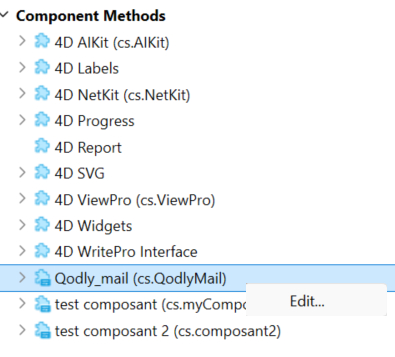
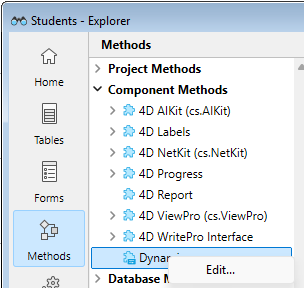
after clossure

diff --git a/docs/Extensions/develop-components.md b/docs/Extensions/develop-components.md
@@ -20,13 +20,13 @@ Creating and installing 4D components is carried out directly from 4D:
 
 - To use a component, you simply need to [install it in your application](../Project/components.md).
 - A project can be both a matrix and a host, in other words, a matrix project can itself use one or more components. However, a component cannot use "sub-components" itself.
-- A component can call on most of the 4D elements: classes, functions, project methods, project forms, menu bars, choice lists, and so on. It cannot call database methods and triggers.
-- You cannot use the datastore, standard tables, or data files in 4D components. However, a component can create and/or use tables, fields and data files using mechanisms of external databases. These are separate 4D databases that you work with using SQL commands.
+- A component can call on most of the 4D elements: datastore ([`ds`](../commands/ds.md)), classes, functions, project methods, project forms, menu bars, choice lists, and so on. The following database methods can be used: [On Web Connection](../commands-legacy/on-web-connection-database-method.md), [On Web Authentication](../commands-legacy/on-web-authentication-database-method.md), [On Host Database Event](../commands-legacy/on-host-database-event-database-method.md). 
+- A component can create and/or use tables, fields and data files using mechanisms of external databases. These are separate 4D databases that you work with using SQL commands.
 - A host project running in interpreted mode can use either interpreted or compiled components. A host project running in compiled mode cannot use interpreted components. In this case, only compiled components can be used.
 
 :::note
 
-Interpreted component code can be [edited directly from the host project](../Project/components.md#editing-component-code) if the context is supported. 
+Interpreted component code can be [edited directly from the host project](#editing-components-from-the-host) if the context is supported. 
 
 :::
 
@@ -157,21 +157,53 @@ $rect:=cs.eGeometry._Rectangle.new(10;20)
 
 ## Editing components from the host
 
-To facilitate component tuning in the actual context of host projects, you can directly modify and save the code of a loaded component from an interpreted host project. The component code is editable when the following conditions are met:
+To facilitate component tuning in the actual context of host projects, you can directly modify and save the code of a loaded component using the 4D IDE from an interpreted host project. Modifications can be immediately tested in the project, without having to restart. 
 
-- the component has been [loaded in interpreted mode](../Project/components.md#interpreted-and-compiled-components),
-- the component is not loaded from the [local cache of the Dependency manager](../Project/components.md#local-cache-for-dependencies), i.e. it is not [downloaded from GitHub](../Project/components.md#adding-a-github-dependency).
+The component code is editable when the following conditions are met:
 
-In this case, you can open, edit, and save your component code in the Code editor on the host project, so that modifications are immediately taken into account. 
+- the host project is running interpreted, 
+- the component has been [loaded in interpreted mode](../Project/components.md#interpreted-and-compiled-components) and the source code is available,
+- the component files are stored locally (i.e. they are not [downloaded from GitHub](../Project/components.md#adding-a-github-dependency).
 
-In the Explorer, a specific icon indicates that the component code is editable:<br/>
+In this context, you can open, edit, and save your component code in the Code editor on the host project from two places:
+
+- from the Component Methods section of the Explorer (shared code only)
+- in a dedicated component tab (all code)
+
+### Editing shared component code
+
+[Exposed component classes](#sharing-of-classes) and [shared methods](#sharing-of-project-methods) of your component can be edited from the **Component Methods** tab of the Explorer. 
+
+A specific icon indicates that the component contains shared code):<br/>
 ![](../assets/en/Develop/editable-component.png)
 
-:::warning
+Select **Edit...** to open your component code in the Code editor. You can edit and save it. 
 
-Only [exposed classes](#sharing-of-classes) and [shared methods](#sharing-of-project-methods) of your component can be edited.
 
-:::
+### Editing all component code
+
+You can edit directly all the code of a loaded component from the host project in a dedicated component tab, including methods or classes that are not shared. 
+
+Select **Edit...** item is available when you right-click on the component name in the **Component Methods** tab of the Explorer. 
+
+![edit-component](../assets/en/Project/Edit-component.png)
+
+When you select it, a dedicated tab is added (or highlighted if already added) in the Explorer. In this tab, the component code is editable in the following pages:
+
+![tab-component](../assets/en/Project/tab-component.png)
+
+- Project Methods
+- Database Methods ([On Web Connection](../commands-legacy/on-web-connection-database-method.md), [On Web Authentication](../commands-legacy/on-web-authentication-database-method.md), [On Host Database Event](../commands-legacy/on-host-database-event-database-method.md))
+- Classes
+- Project Form Methods
+
+![tab-component](../assets/en/Project/tab-component.gif)
+
+
+Standard 4D IDE features are available for the component. You can execute the following actions:
+- add, duplicate, delete, edit/save [methods and classes](../Project/code-overview.md)
+- preview code, show/edit [documentation](../Project/documentation.md), display/edit [method properties](../Project/code-overview.md#project-method-properties), 
+- run methods. 
 
 
 

diff --git a/docs/Project/components.md b/docs/Project/components.md
@@ -32,36 +32,6 @@ The "Contents" folder architecture is recommended for components if you want to 
 
 :::
 
-## Editing component code
-
-You can edit directly the code of a loaded component from the host project using the 4D IDE. Modifications can be immediately tested in the host project, without having to restart. 
-
-This feature is available in the following context:
-
-- the host project is running interpreted,
-- the component source code is available (not compiled),
-- the component files are stored locally (i.e. not in the [local cache](#local-cache-for-dependencies) of the dependency manager).
-
-In this context, an **Edit...** item is available when you right-click on the component name in the **Component Methods** tab of the Explorer. 
-
-![edit-component](../assets/en/Project/Edit-component.png)
-
-When you select it, a dedicated tab is added (or highlighted if already added) in the Explorer. In this tab, the component code is editable in the following pages:
-
-![tab-component](../assets/en/Project/tab-component.png)
-![tab-component](../assets/en/Project/tab-component.gif)
-
-
-- Project Methods
-- Database Methods ([on Web connection](../commands-legacy/on-web-connection-database-method.md), [on web authentication](../commands-legacy/on-web-authentication-database-method.md), [on host database event](../commands-legacy/on-host-database-event-database-method.md))
-- Classes
-- Project Form Methods
-
-Standard 4D IDE features are available for the component. You can execute the following actions:
-- add, duplicate, delete, edit/save [methods and classes](../Project/code-overview.md)
-- preview code, show/edit [documentation](../Project/documentation.md), display/edit [method properties](../Project/code-overview.md#project-method-properties), 
-- run methods. 
-
 
 
 ## Loading components

diff --git a/docs/Concepts/components.md b/docs/Concepts/components.md
@@ -32,6 +32,6 @@ You can select a component [project method](methods.md) or [class](classes.md) a
 
 :::note
 
-Interpreted component code can be [edited directly from the host project](../Project/components.md#editing-component-code) if the context is supported. 
+Interpreted component code can be [edited directly from the host project](../Extensions/develop-components.md#editing-components-from-the-host) if the context is supported. 
 
 :::

diff --git a/docs/Notes/updates.md b/docs/Notes/updates.md
@@ -3,6 +3,14 @@ id: updates
 title: Release Notes
 ---
 
+## 4D 21
+
+Read [**What’s new in 4D 21**](https://blog.4d.com/en-whats-new-in-4d-21/), the blog post that lists all new features and enhancements in 4D 21.
+
+#### Highlights
+
+- The code of a loaded, interpreted component can now be [edited from a dedicated tab](../Extensions/develop-components.md#editing-all-component-code) in the 4D Explorer. 
+
 
 ## 4D 20 R10
 
